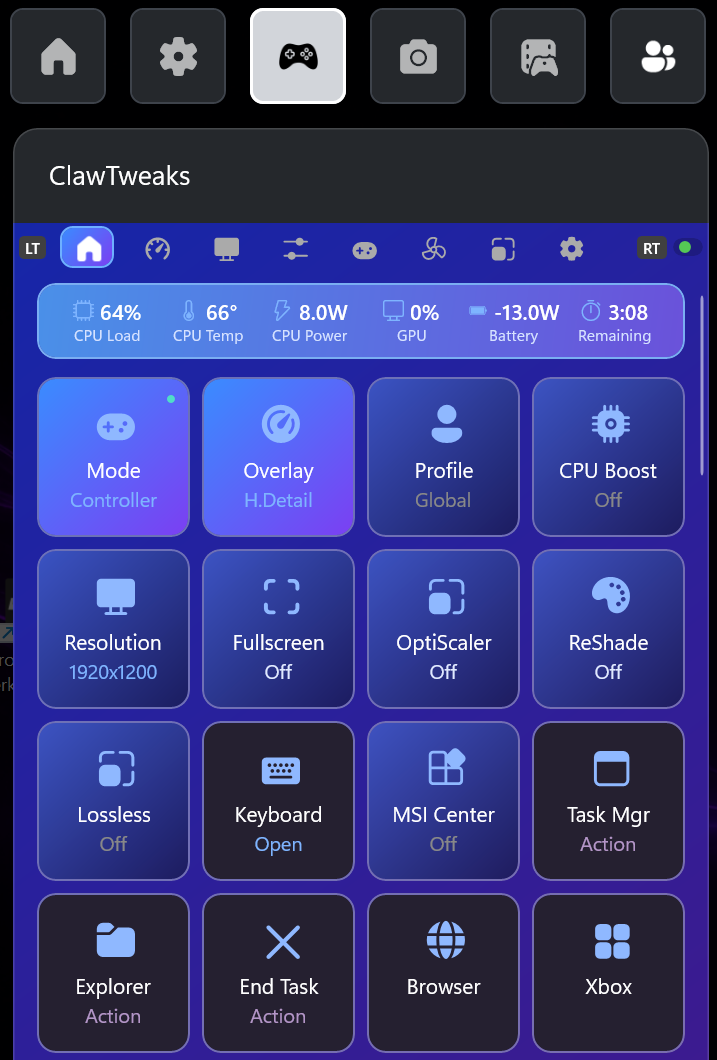
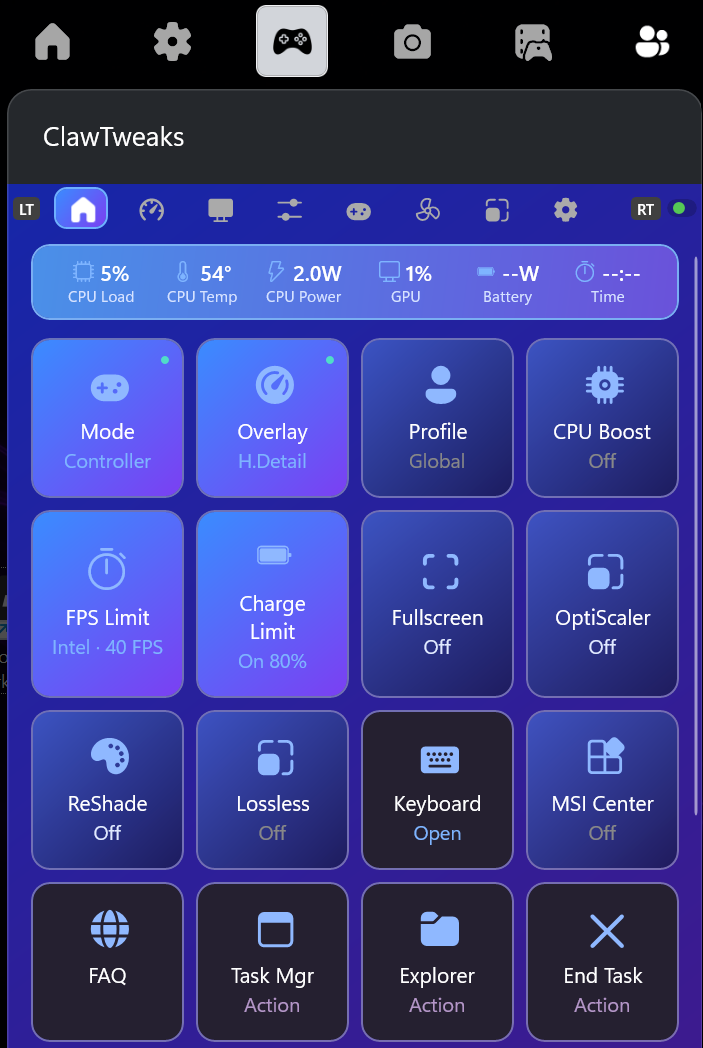
fix: charge limit reset to 80% on every startup (XAML-default slider clobber)
Root cause (found in widget+helper logs): the MsiChargeLimitSlider has Value="80"
in XAML. On page construction the Slider raises ValueChanged with that default
BEFORE RestoreMsiChargeLimitFromSettings runs, while _msiChargeLimitLoading was
false. That handler then (1) saved MsiChargeLimitPercentKey = 80, overwriting the
real stored value (e.g. 95), (2) started the debounce which pushed 80 to the
helper, and (3) the connect re-push then sent the clobbered 80 too. The helper
correctly restored 95 on boot, but the widget overwrote it with 80 ~2s later on
every start.

Fix: initialise _msiChargeLimitLoading = true so the slider/toggle default events
raised during construction are ignored; RestoreMsiChargeLimitFromSettings clears
the flag once the real values are loaded.

diff --git a/XboxGamingBar/Features/Devices/GamingWidget.MsiClawSettings.cs b/XboxGamingBar/Features/Devices/GamingWidget.MsiClawSettings.cs
@@ -34,7 +34,11 @@ namespace XboxGamingBar
         // ── State ───────────────────────────────────────────────────────────────────
         private bool   _msiLedExpanded       = false;
         private bool   _msiLedLoading        = false;
-        private bool   _msiChargeLimitLoading = false;
+        // Start TRUE so the Slider's XAML-default ValueChanged (Value="80") and the ToggleSwitch's
+        // default Toggled — both raised during page construction, BEFORE RestoreMsiChargeLimitFromSettings
+        // runs — are ignored. Otherwise that spurious 80 clobbered the stored percent and got pushed to
+        // the helper on every startup, resetting a user's 95% back to 80%. Restore clears it when done.
+        private bool   _msiChargeLimitLoading = true;
 
         // Debounce timer so dragging the color wheel doesn't flood the helper
         private Windows.UI.Xaml.DispatcherTimer _msiLedDebounceTimer;